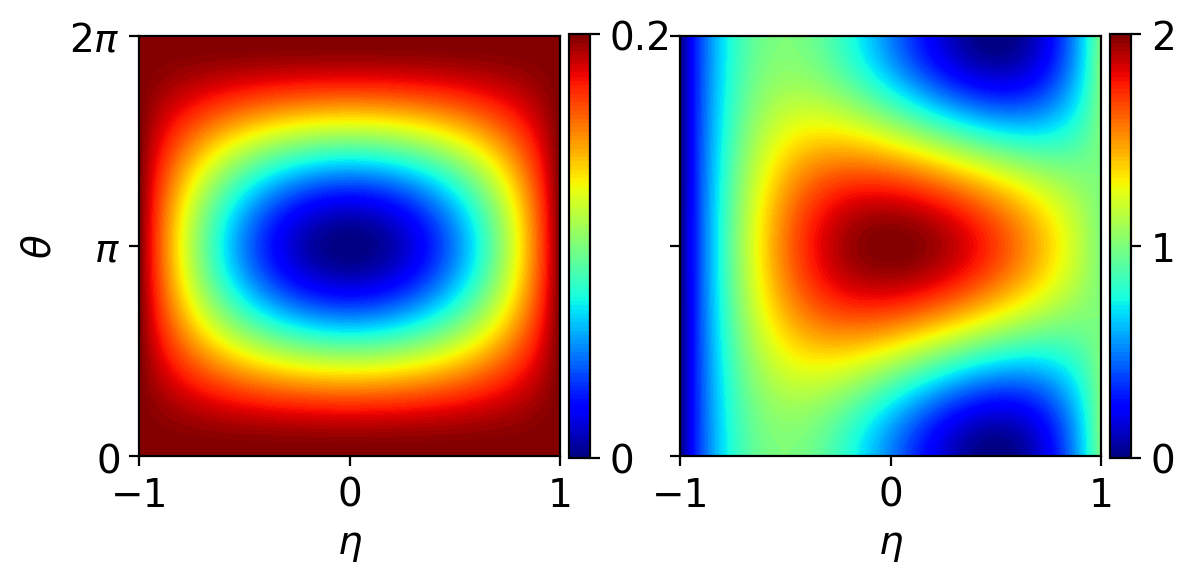
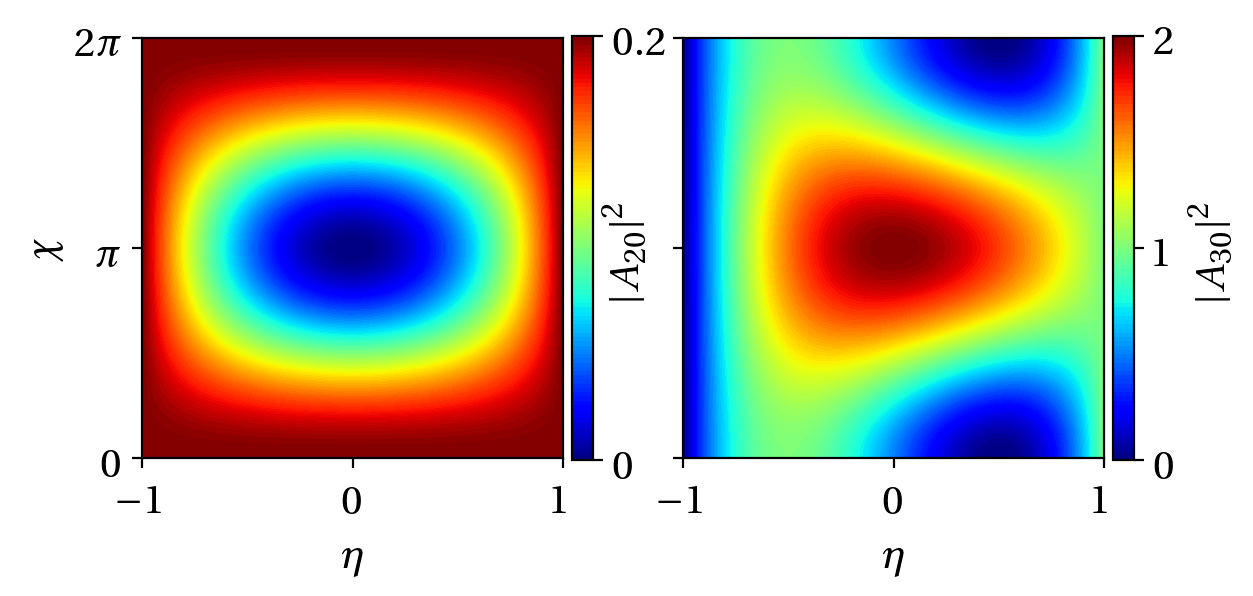
Update singlet-duo and -trio plot for UN-BN case

diff --git a/scripts/ch-spin2/UN-BN/UN-BN_singlets.py b/scripts/ch-spin2/UN-BN/UN-BN_singlets.py
@@ -1,0 +1,52 @@
+import numpy as np
+import matplotlib.pyplot as plt
+
+plt.rcParams["text.usetex"] = True
+plt.rc("text.latex", preamble=r"\usepackage{fourier}")
+plt.rcParams.update({"font.size": 16})
+
+Nx = 1000
+eta_UN_BN = np.linspace(-1, 1, Nx)
+chi = np.linspace(0, 2 * np.pi, Nx)
+Eta, Chi = np.meshgrid(eta_UN_BN, chi, indexing="ij")
+
+mod_a20_UN_BN = 0.1 * ((1 - Eta**2) * np.cos(Chi) + Eta**2 + 1)
+mod_a30_UN_BN = (
+    (1 + Eta)
+    / 4
+    * (3 * (Eta**2 - 1) * np.cos(Chi) + Eta * (5 * Eta - 8) + 5)
+)
+
+
+fig, ax = plt.subplots(1, 2, sharex=True, sharey=True)
+for axis in ax:
+    axis.set_box_aspect(1)
+
+ax[0].set_xlabel(r"$\eta$")
+ax[1].set_xlabel(r"$\eta$")
+ax[0].set_ylabel(r"$\chi$")
+
+ax[0].set_yticks([0, np.pi, 2 * np.pi])
+ax[0].set_yticklabels([r"$0$", r"$\pi$", r"$2\pi$"])
+
+a20_plot = ax[0].contourf(Eta, Chi, mod_a20_UN_BN, levels=100, cmap="jet")
+a30_plot = ax[1].contourf(Eta, Chi, mod_a30_UN_BN, levels=100, cmap="jet")
+
+a20_cbar = fig.colorbar(
+    a20_plot, ax=ax[0], orientation="vertical", fraction=0.047, pad=0.02
+)
+a20_cbar.set_ticks([0, 0.2])
+a20_cbar.set_ticklabels([r"$0$", r"$0.2$"])
+a20_cbar.set_label(r"$|A_{20}|^2$", labelpad=-23)
+
+a30_cbar = fig.colorbar(
+    a30_plot, ax=ax[1], orientation="vertical", fraction=0.047, pad=0.02
+)
+a30_cbar.set_ticks([0, 1, 2])
+a30_cbar.set_ticklabels([r"$0$", r"$1$", r"$2$"])
+a30_cbar.set_label(r"$|A_{30}|^2$", labelpad=5)
+
+plt.savefig(
+    "gfx/ch-spin2/a20-a30-varying.png", dpi=200, bbox_inches="tight"
+)
+plt.show()

diff --git a/tex/ch-spin2/spin2.tex b/tex/ch-spin2/spin2.tex
@@ -175,7 +175,7 @@ We plot both the singlet-duo and -trio amplitudes in
 Fig.~\ref{fig: UN-BN-duo-trio} in a parameter space of \((\eta, \theta)\).
 \begin{figure}
     \centering
-    \includegraphics[width=0.75\textwidth]{gfx/ch-spin2/a20-a30-varying.png}
+    \includegraphics[width=0.8\textwidth]{gfx/ch-spin2/a20-a30-varying.png}
     \caption[Spin-singlet duo and trio amplitudes in a parameter space of
         \(\chi \) and \(\eta \)]
     {\label{fig: UN-BN-duo-trio} Spin singlet-duo (left) and -trio
